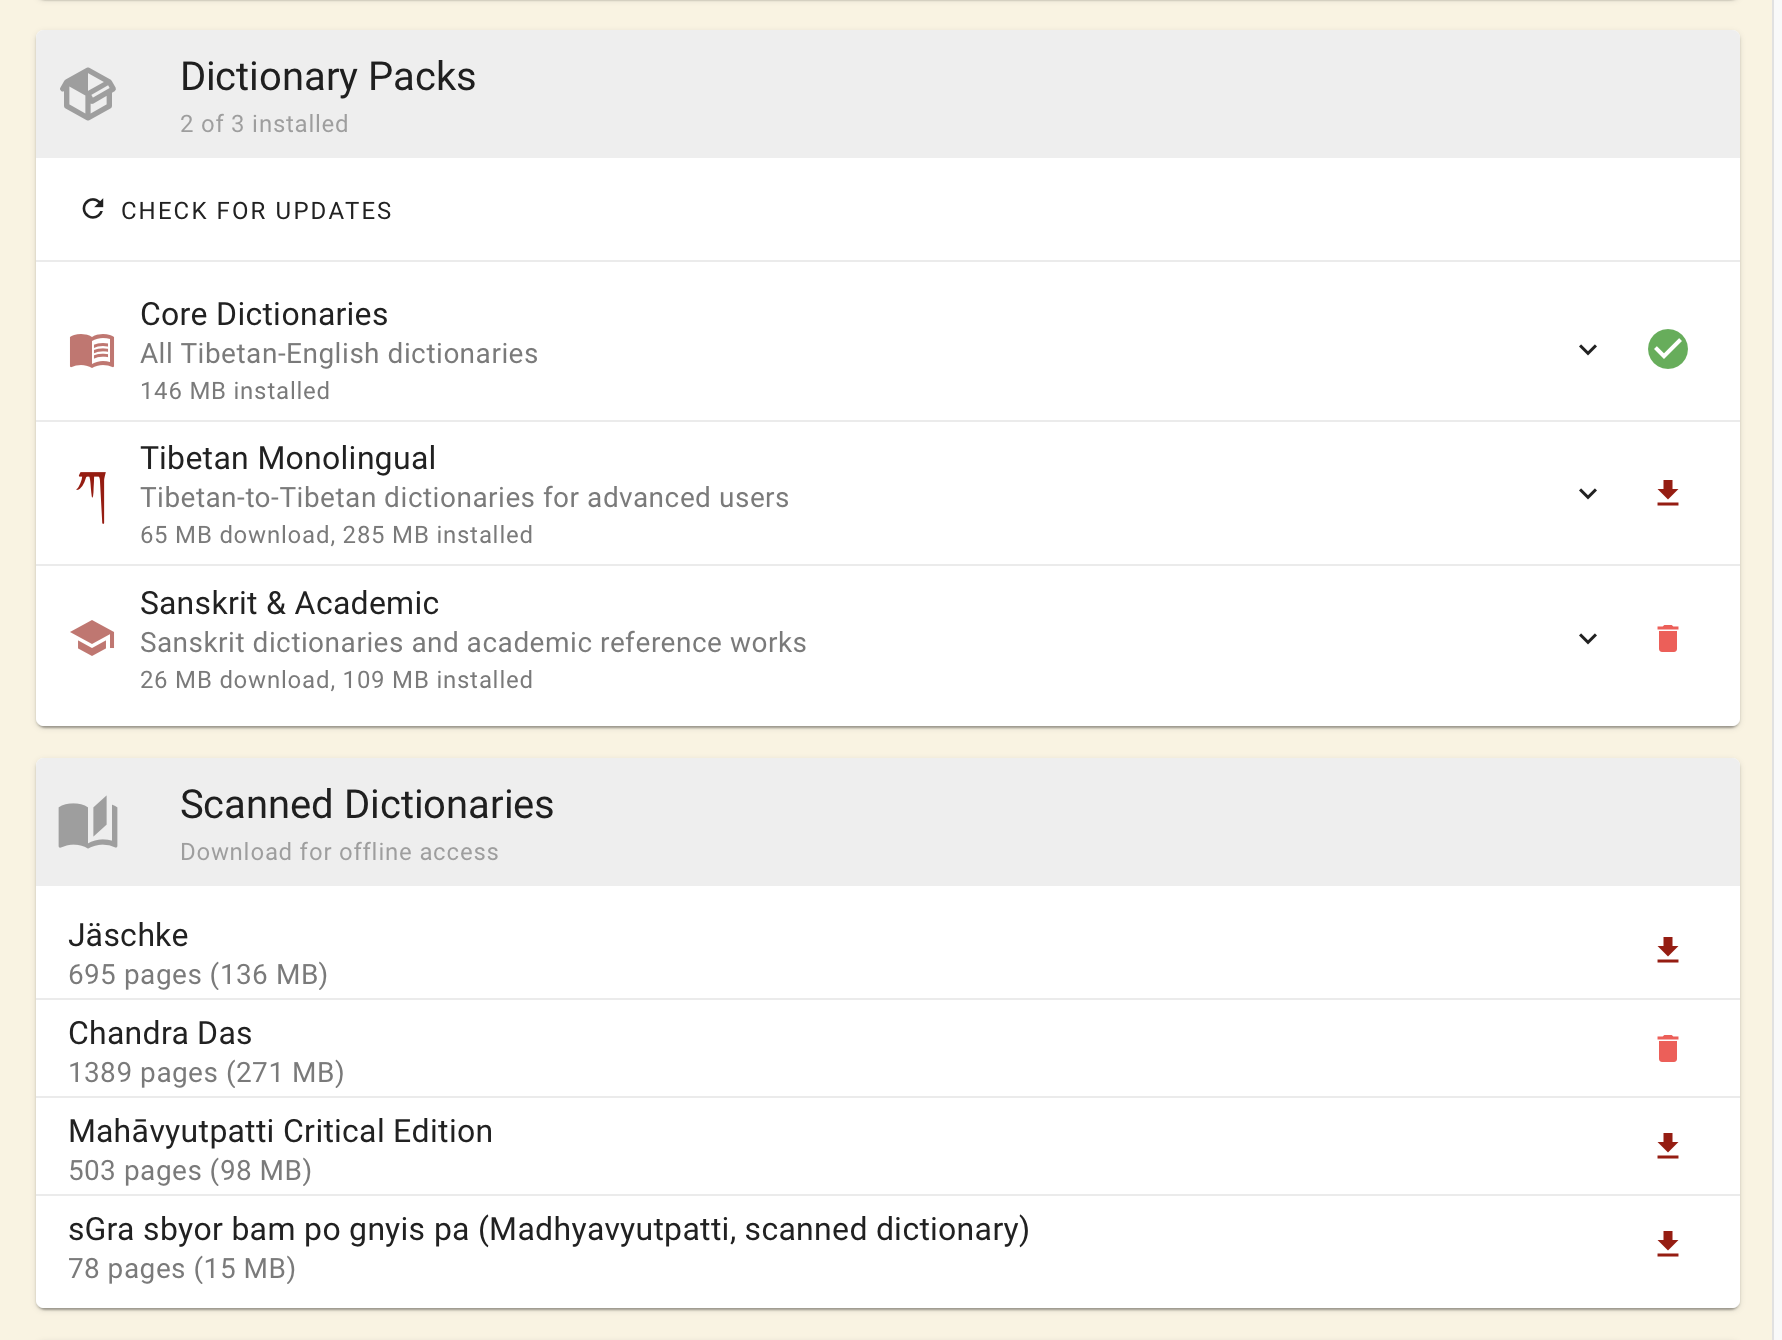
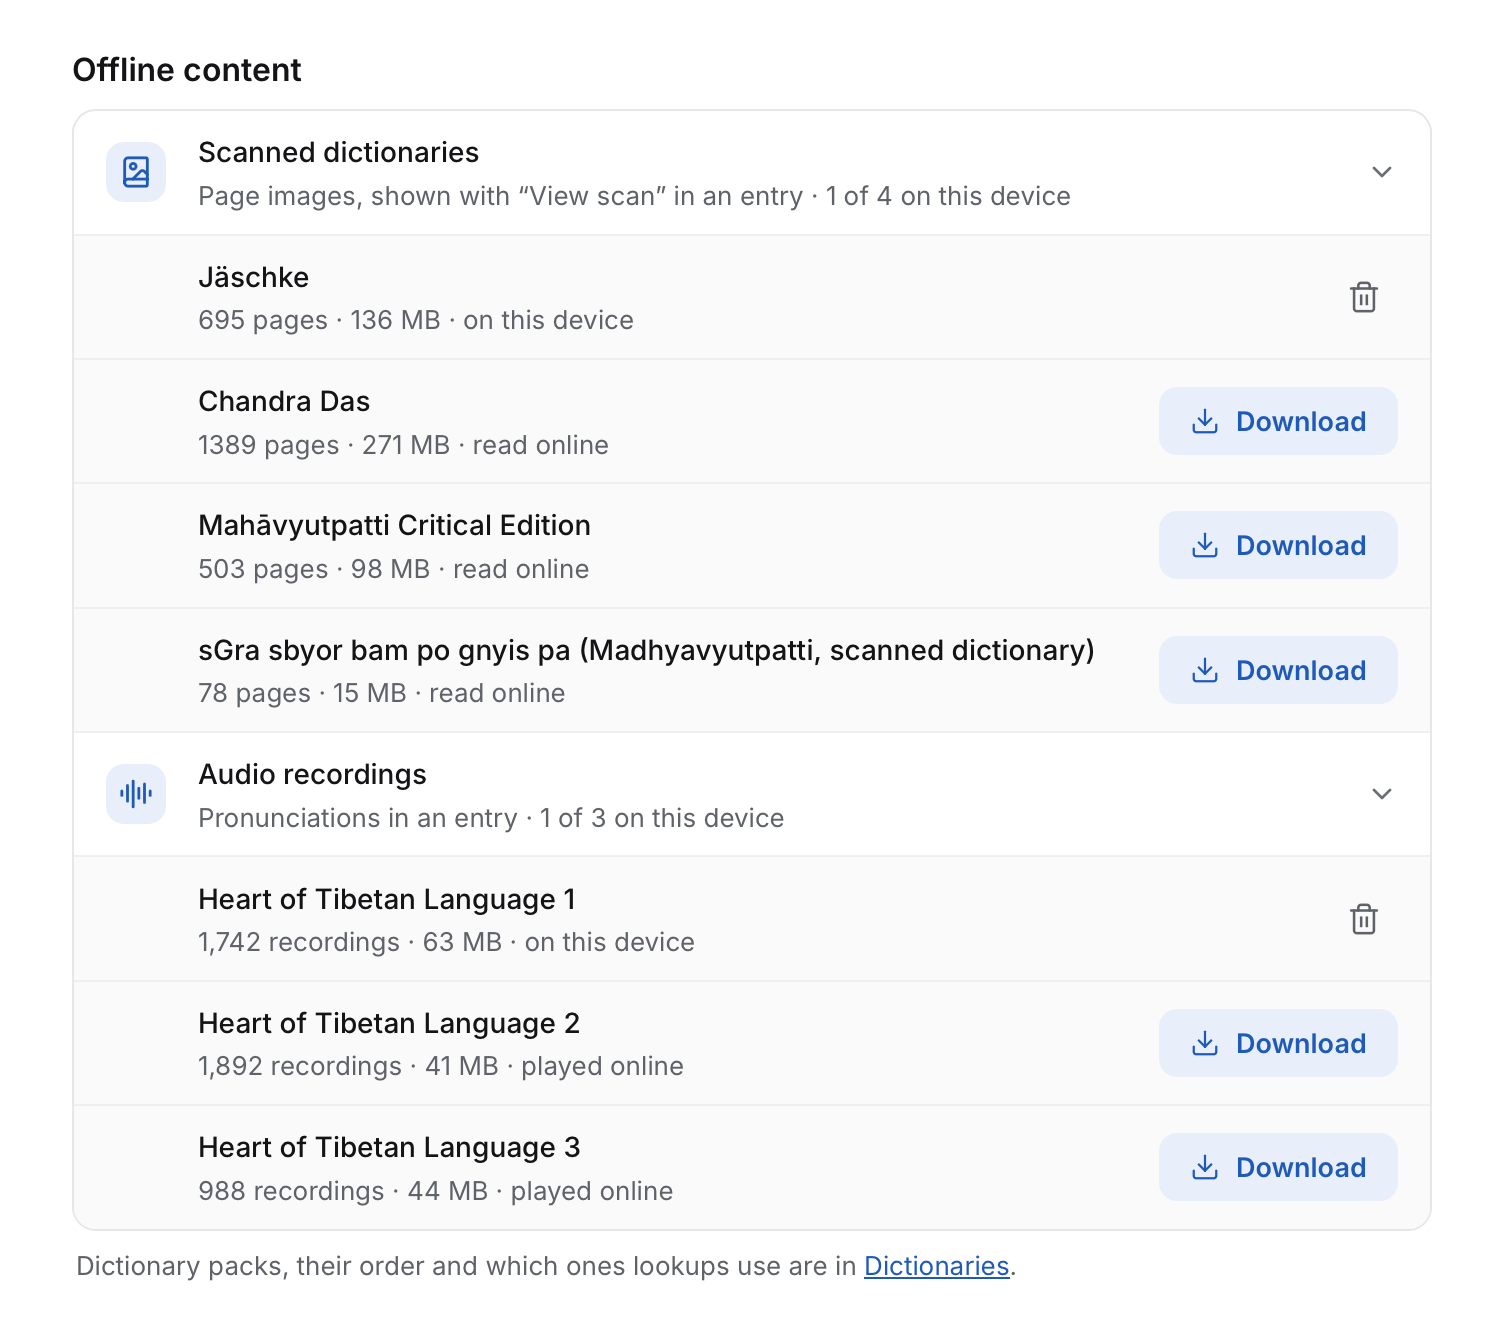
feat(site): shows Tibetan Translator 2.0, with a section on Reader
New screenshots of the 2.0 design for phonetic search, the query
builder, offline content and Dictionaries; "Refine your queries" becomes
"Combine conditions", and a "Read a whole text" section shows Reader.

diff --git a/index.html b/index.html
@@ -231,7 +231,7 @@
             <div class="image">
               <img
                 src="images/phonetic-search.png"
-                alt="Screenshot showing phonetic search feature with Tibetan terms and their translations"
+                alt="Search page: the phonetic query {nying je} lists the terms that sound like it, with the entry of སྙིང་རྗེ་ beside them"
               />
             </div>
             <div class="content">
@@ -253,27 +253,47 @@
             <div class="image">
               <img
                 src="images/refined-queries.png"
-                alt="Screenshot showing how to refine search queries using the ampersand operator"
+                alt="The query builder combining a term that sounds like trenpa with definitions containing mindfulness, beside the entry of དྲན་པ་"
               />
             </div>
             <div class="content">
-              <h2 class="major">Refine your queries</h2>
+              <h2 class="major">Combine conditions</h2>
               <p>
-                Don't want to scroll through hundreds of results? Just narrow
-                down your search by combining terms with the ampersand (&amp;)
-                operator, or just use the Query Builder to do this visually.
+                Too many results? Narrow them down by combining conditions with
+                the ampersand (&amp;), or build the query one condition at a
+                time in the query builder, each one read as a short sentence.
+              </p>
+            </div>
+          </div>
+        </section>
+
+        <!-- Reader -->
+        <section id="reader" class="wrapper alt spotlight style4">
+          <div class="inner">
+            <div class="image">
+              <img
+                src="images/reader.png"
+                alt="Reader: a Tibetan line split into words, longer expressions underlined, and the entry of the word chosen, ཆོས་, beside it"
+              />
+            </div>
+            <div class="content">
+              <h2 class="major">Read a whole text</h2>
+              <p>
+                Paste a Tibetan text and read it word by word: click any word
+                to see its entry beside it, and the longer expressions are
+                underlined so you can look them up too.
               </p>
             </div>
           </div>
         </section>
 
         <!-- Four -->
-        <section id="four" class="wrapper alt spotlight style4">
+        <section id="four" class="wrapper spotlight style1">
           <div class="inner">
             <div class="image">
               <img
                 src="images/offline-access.png"
-                alt="Screenshot showing dictionary packs and scanned dictionaries available for offline download"
+                alt="Settings, Offline content: scanned dictionaries and audio recordings, some on this device, the others ready to download"
               />
             </div>
             <div class="content">
@@ -288,19 +308,20 @@
         </section>
 
         <!-- Five -->
-        <section id="five" class="wrapper spotlight style1">
+        <section id="five" class="wrapper alt spotlight style2">
           <div class="inner">
             <div class="image">
               <img
                 src="images/dictionaries.png"
-                alt="Screenshot showing the dictionary selection interface with multiple dictionary options"
+                alt="Dictionaries page: every dictionary with its languages and subjects, its switch and its place in the order, and the selected one's details"
               />
             </div>
             <div class="content">
               <h2 class="major">Pick your dictionaries</h2>
               <p>
-                Search across 60+ different dictionaries or select just the ones
-                you prefer.
+                More than 60 dictionaries. Find them by name, subject or
+                language, turn on the ones you want and drag them into the
+                order you prefer.
               </p>
             </div>
           </div>
